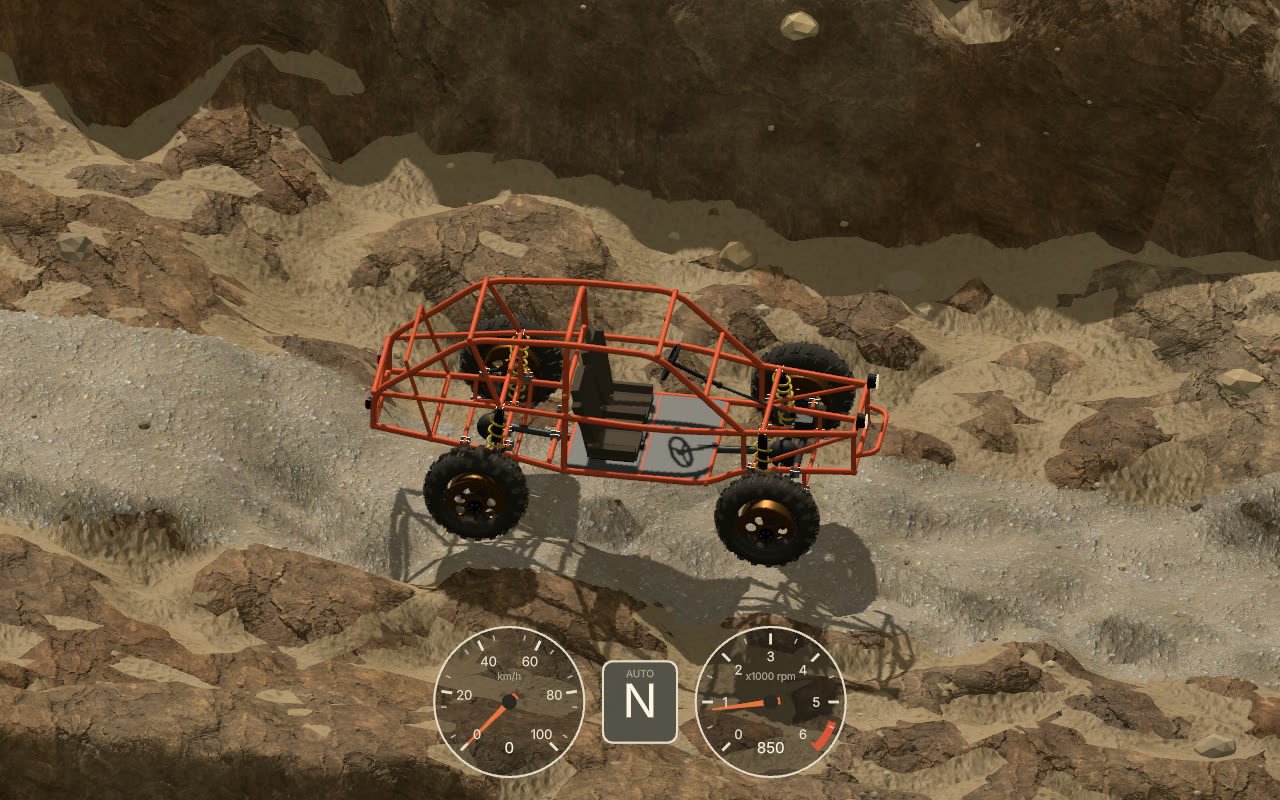
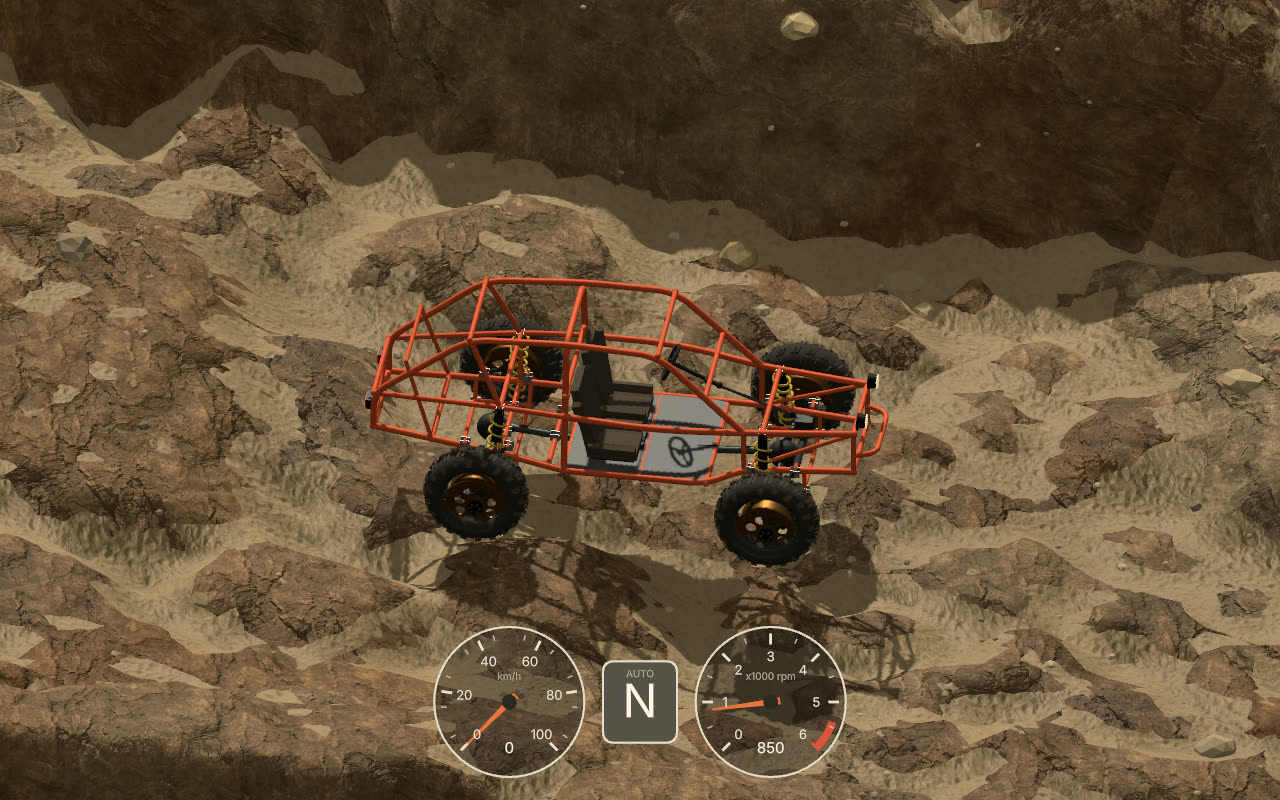
Research notes: PBR screens without the gravel strip

Changed region(s): [[0.0, 0.375, 1.0, 0.875], [0.4062, 0.5312, 0.4375, 0.5938]]

diff --git a/docs/research/realistic-river-ground.md b/docs/research/realistic-river-ground.md
@@ -83,7 +83,7 @@ Screens: `docs/research/river-ground/` (`*-low.jpg`: low camera, `*-close.jpg`: 
   removed.
 - Weak: the scanned rock is browner than the world's yellow sandstone (now tinted by each
   boulder's colour; needs a better-matched texture or a colour grade). Repeats can show on large
-  flat areas. 3.7 MB of JPG as it is now.
+  flat areas. 3.5 MB of JPG as it is now.
 
 ## Cost
 
